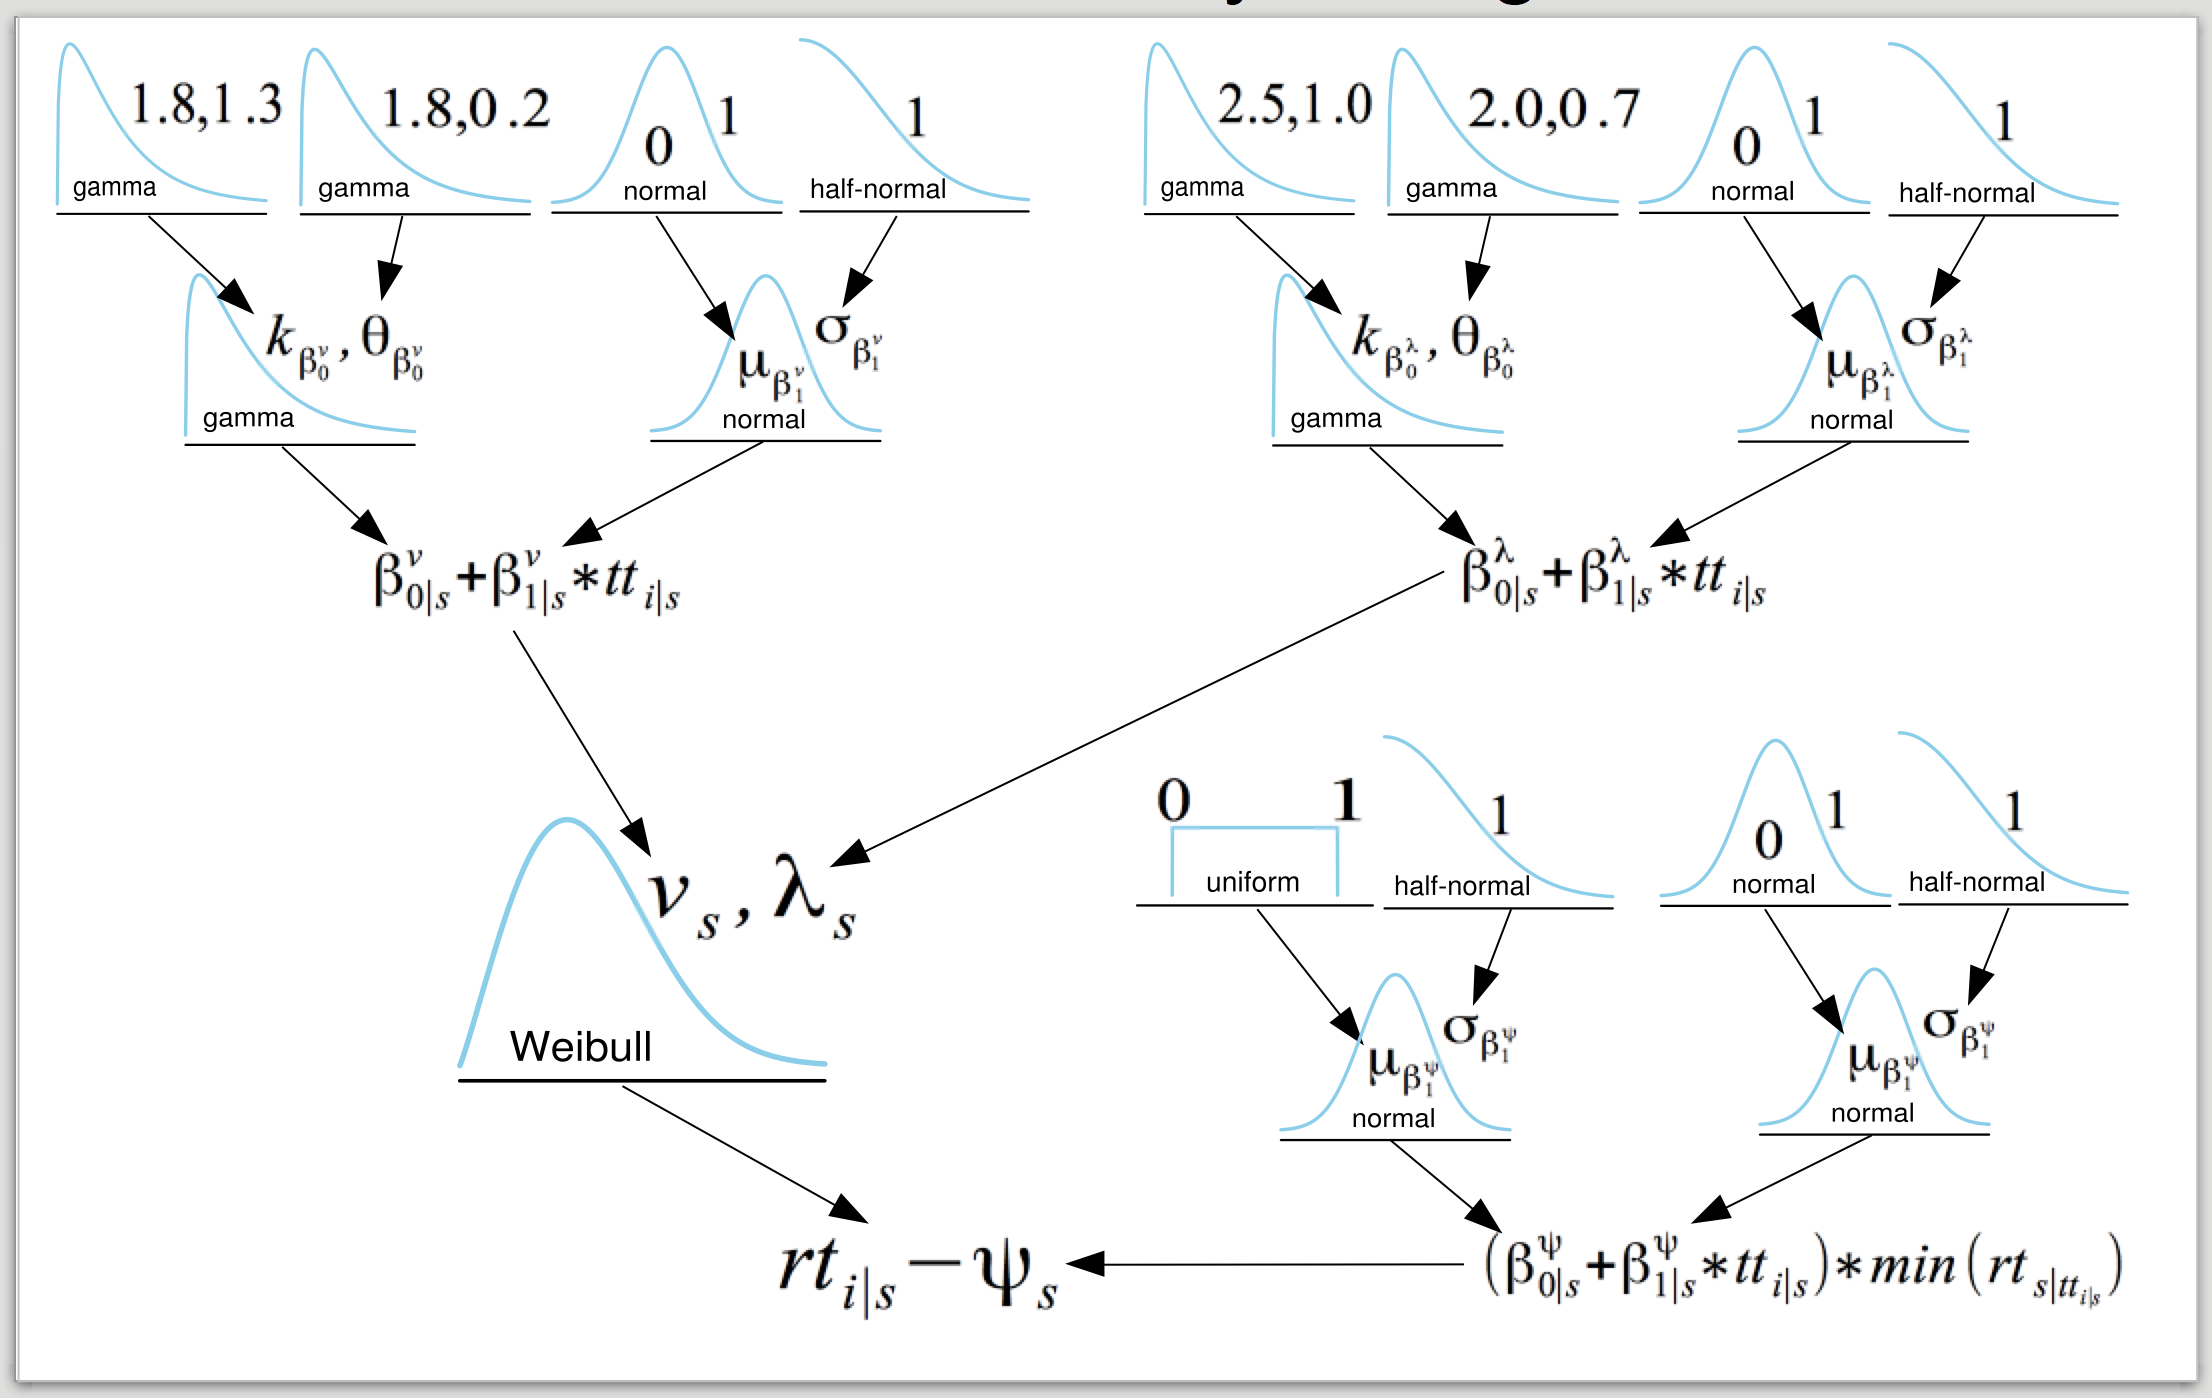
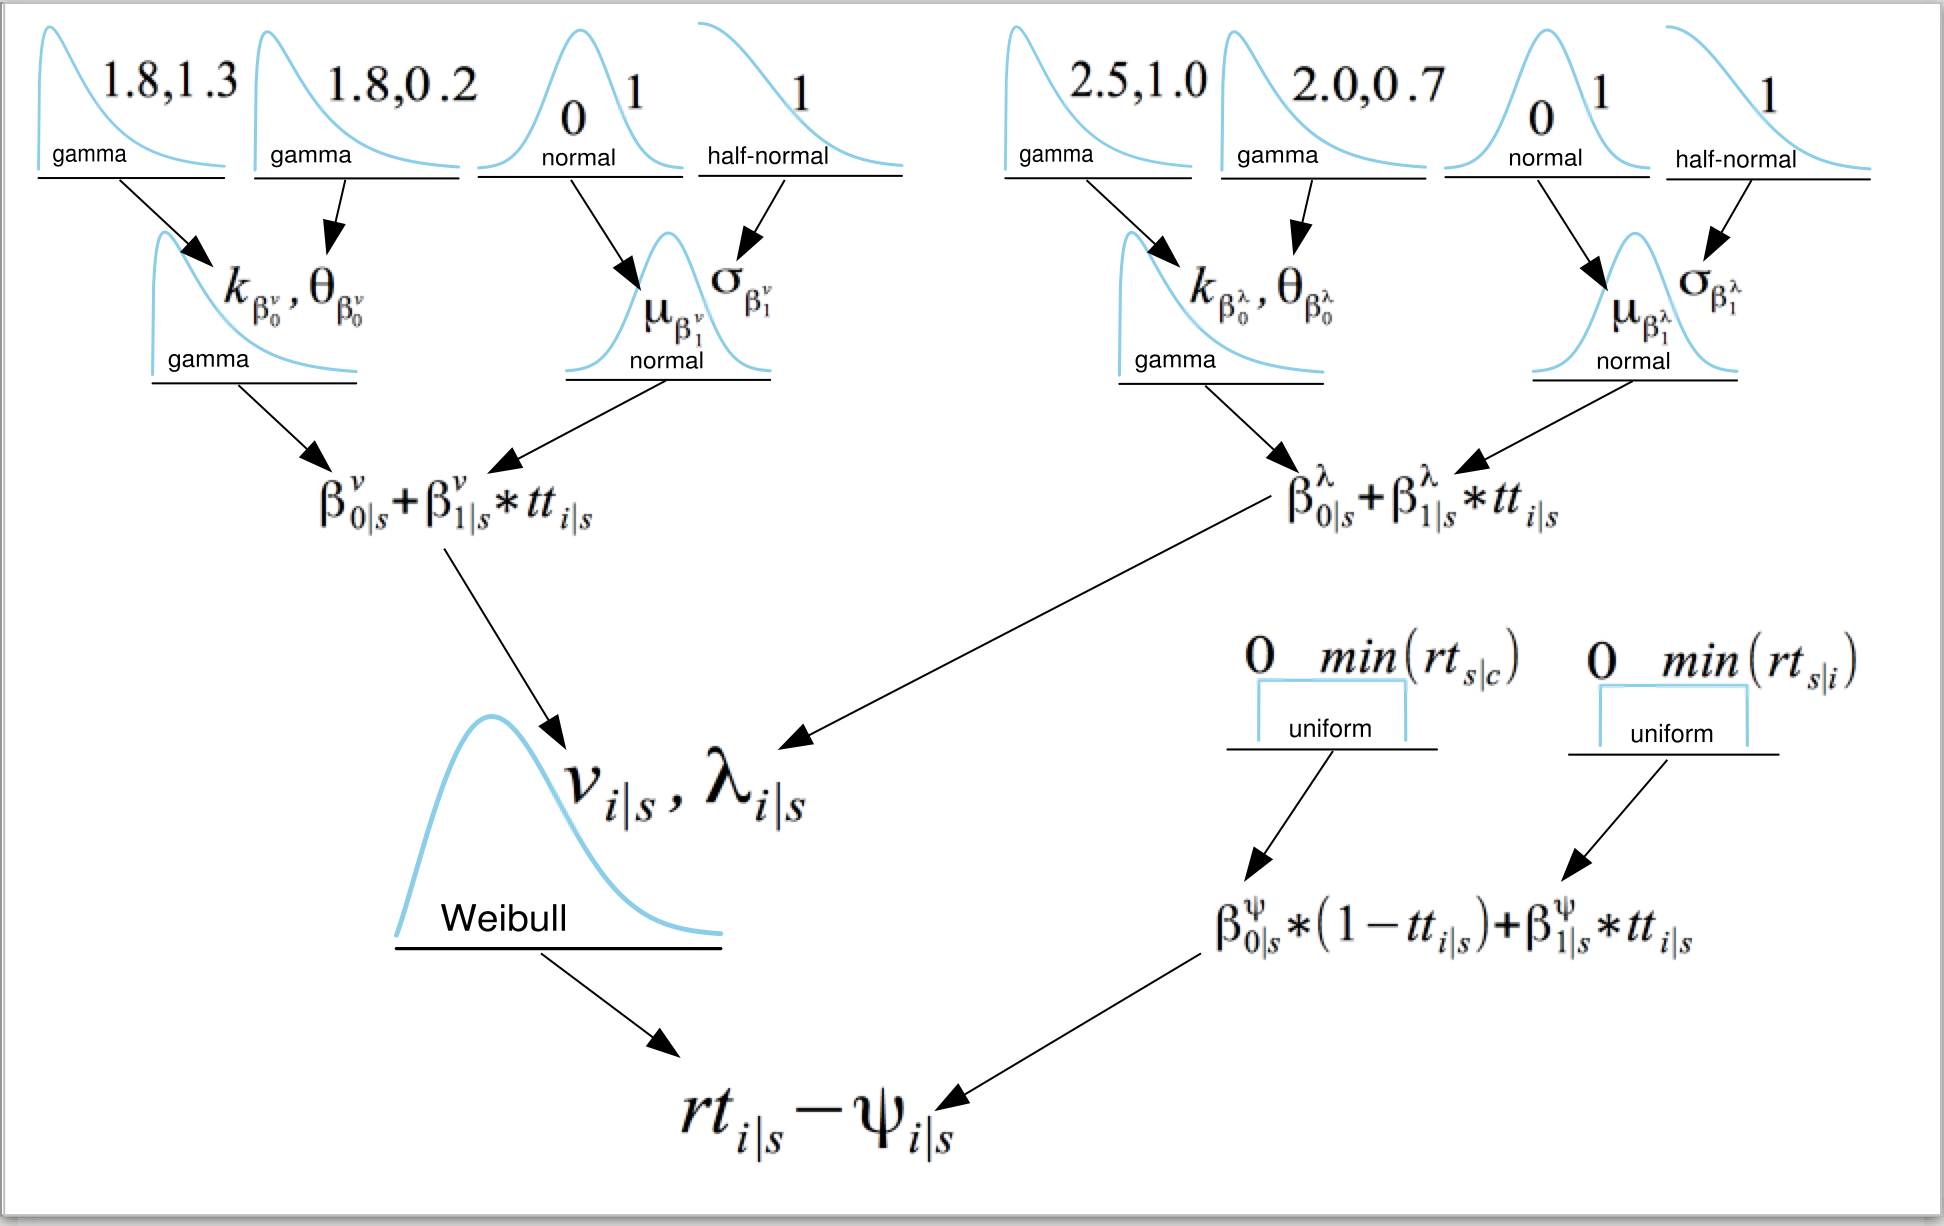
Fixed shift parameter and kruscke diagram for weibull hierarchical

diff --git a/src/stan.py b/src/stan.py
@@ -83,20 +83,20 @@ def plot_weibull_subject_fit(model_fit, behavior, subject, subjects):
             if c == 'congruent':
                 shape = mapp['beta0_shape'][sub_ix]
                 scale = mapp['beta0_scale'][sub_ix]
-                shift = mapp['beta0_shift'][sub_ix] * cond_rt.min()
+                shift = mapp['beta0_shift'][sub_ix]
             else:
                 shape = mapp['beta0_shape'][sub_ix] + mapp['beta1_shape'][sub_ix]
                 scale = mapp['beta0_scale'][sub_ix] + mapp['beta1_scale'][sub_ix]
-                shift = (mapp['beta0_shift'][sub_ix] + mapp['beta1_shift'][sub_ix]) * cond_rt.min()
+                shift = (mapp['beta0_shift'][sub_ix] + mapp['beta1_shift'][sub_ix])
         else:
             if c == 'congruent':
                 shape = mapp['beta0_shape'][sub_ix]
                 scale = mapp['beta0_scale'][sub_ix]
-                shift = mapp['beta0_shift'][sub_ix] * cond_rt.min()
+                shift = mapp['beta0_shift'][sub_ix]
             else:
                 shape = mapp['beta0_shape'][sub_ix] + mapp['beta1_shape']
                 scale = mapp['beta0_scale'][sub_ix] + mapp['beta1_scale']
-                shift = (mapp['beta0_shift'][sub_ix] + mapp['beta1_shift']) * cond_rt.min()
+                shift = mapp['beta0_shift'][sub_ix] + mapp['beta1_shift']
 
 
 
